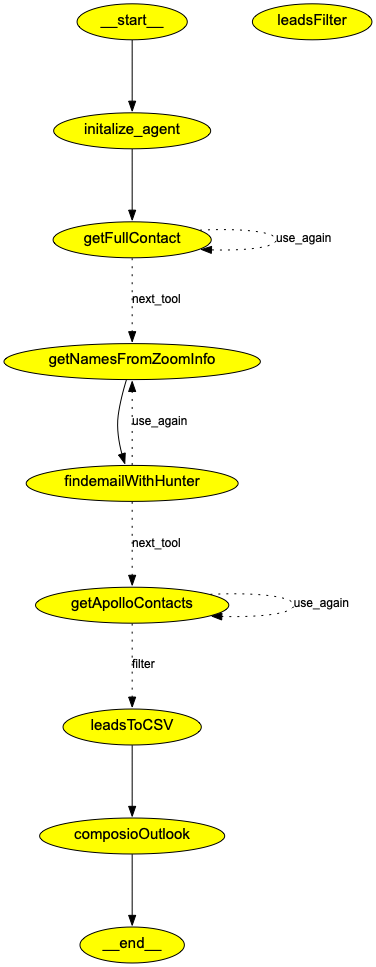
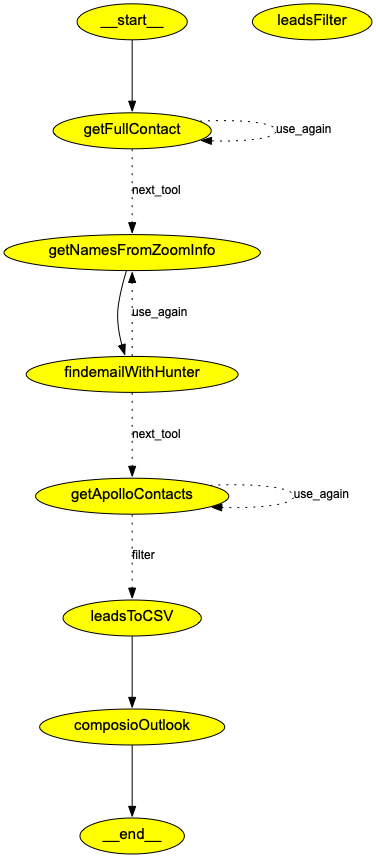
modified workflow

diff --git a/agent.py b/agent.py
@@ -151,7 +151,13 @@ def enrichContactZoomInfo(contact: Contact, token: str) -> Contact:
         "data": {
             "type": "ContactEnrich",
             "attributes": {
-                "outputFields": ["email", "phone", "mobilePhone"],
+                "outputFields": [
+                        "email", "phone", "mobilePhone",
+                        "state", "street", "country",
+                        "companyState", "companyStreet",
+                        "directPhoneDoNotCall", "mobilePhoneDoNotCall",
+                        "companyPrimaryIndustry", "companyWebsite"
+                ],
                 "matchPersonInput": [{"personId": int(contact.id)}]
             }
         }
@@ -162,8 +168,11 @@ def enrichContactZoomInfo(contact: Contact, token: str) -> Contact:
     if results:
         attrs = results[0].get("attributes", {})
         contact.email = attrs.get("email")
-        contact.phone = attrs.get("phone") or attrs.get("mobilePhone")
-    contact.data_source = "Zoom Info"
+        contact.phone = attrs.get("phone")
+        contact.company_address = attrs.get("street") 
+        contact.state = attrs.get("state")  
+        contact.industry = (attrs.get("company", {}).get("primaryIndustry") or [None])[0]    
+        contact.data_source = "Zoom Info"
     return contact
 
 
@@ -227,7 +236,8 @@ def getFullContact(state: StateSchema) -> dict:
             continue
         seen_companies.add(currLead.company) 
         addedContact = enrichContactZoomInfo(currLead, token) 
-        addedContact.data_source = "Zoom Info"
+        addedContact.data_source = "Zoom Info" 
+
         uniqueContacts.append(addedContact)
     writeNewZoomInfoPageNumber(page) 
     return {
@@ -372,7 +382,7 @@ def enrichApolloContact(apollo_id: str) -> Contact | None:
 
 def getApolloContacts(state: StateSchema) -> dict: 
     contacts: list[Contact] = [] 
-    url = "https://api.apollo.io/api/v1/mixed_people/api_search?person_seniorities[]=c_suite&person_seniorities[]=director&person_seniorities[]=vp&person_seniorities[]=founder&organization_locations[]=New%20Jersey&organization_locations[]=New%20York&organization_locations[]=Maryland&organization_locations[]=Pennsylvania&organization_industries[]=machinery&organization_industries[]=electrical%2Felectronic%20manufacturing&organization_industries[]=plastics&organization_industries[]=pharmaceuticals&organization_industries[]=building%20materials&organization_industries[]=hotel&organization_industries[]=hospitality&organization_industries[]=Food%20Production&organization_industries[]=supermarkets&organization_industries[]=hotel%20management&organization_industries[]=resort&contact_email_status[]=verified&contact_email_status[]=likely%20to%20engage&contact_email_status[]=unverified&organization_num_employees_ranges[]=10%2C1000&page=1&per_page=1" 
+    url = "https://api.apollo.io/api/v1/mixed_people/api_search?person_seniorities[]=c_suite&person_seniorities[]=director&person_seniorities[]=vp&person_seniorities[]=founder&organization_locations[]=New%20Jersey%2C%20US&organization_locations[]=New%20York%2C%20US&organization_locations[]=Maryland%2C%20US&organization_locations[]=Pennsylvania%2C%20US&person_locations[]=New%20Jersey%2C%20US&person_locations[]=New%20York%2C%20US&person_locations[]=Maryland%2C%20US&person_locations[]=Pennsylvania%2C%20US&q_organization_keyword_tags[]=manufacturing&q_organization_keyword_tags[]=machinery&q_organization_keyword_tags[]=plastics&q_organization_keyword_tags[]=pharmaceuticals&q_organization_keyword_tags[]=building%20materials&q_organization_keyword_tags[]=food%20production&q_organization_keyword_tags[]=hospitality&q_organization_keyword_tags[]=hotels&q_organization_keyword_tags[]=supermarkets&q_organization_keyword_tags[]=resorts&contact_email_status[]=verified&contact_email_status[]=likely%20to%20engage&contact_email_status[]=unverified&organization_num_employees_ranges[]=10%2C1000&page=1&per_page=1"
     pageNumber = fetchNewApolloPageNumber()  
     url = url.replace("&page=1&", f"&page={pageNumber}&")
 
@@ -651,7 +661,7 @@ def useApolloAgain(state: StateSchema) -> str:
 
 
 
-graph.add_node(initalize_agent) 
+
 graph.add_node(getFullContact) 
 graph.add_node(getNamesFromZoomInfo) 
 graph.add_node(findemailWithHunter)  
@@ -660,8 +670,7 @@ graph.add_node(leadsToCSV)
 graph.add_node(leadsFilter)
 graph.add_node(composioOutlook) 
 
-graph.add_edge(START, "initalize_agent") 
-graph.add_edge("initalize_agent", "getFullContact")  
+graph.add_edge(START, "getFullContact") 
 graph.add_conditional_edges(
     "getFullContact", 
     useZoomInfoAgain, 
@@ -681,18 +690,18 @@ app.get_graph().draw_png("workflow.png")
 
 # getApolloContacts()
 
-result = asyncio.run(app.ainvoke(
-    {
-        "leads": [],
-        "leads_to_get_email": [],
-        "zoom_info_calls": 0,
-        "zoom_info_name_counter": 0,
-        "apollo_calls": 0,
-        "names_page": 0,
-    },
-    config
-))
-print(len(result["leads"]), "leads")
+# result = asyncio.run(app.ainvoke(
+#     {
+#         "leads": [],
+#         "leads_to_get_email": [],
+#         "zoom_info_calls": 0,
+#         "zoom_info_name_counter": 0,
+#         "apollo_calls": 0,
+#         "names_page": 0,
+#     },
+#     config
+# ))
+# print(len(result["leads"]), "leads")
 
 
 
